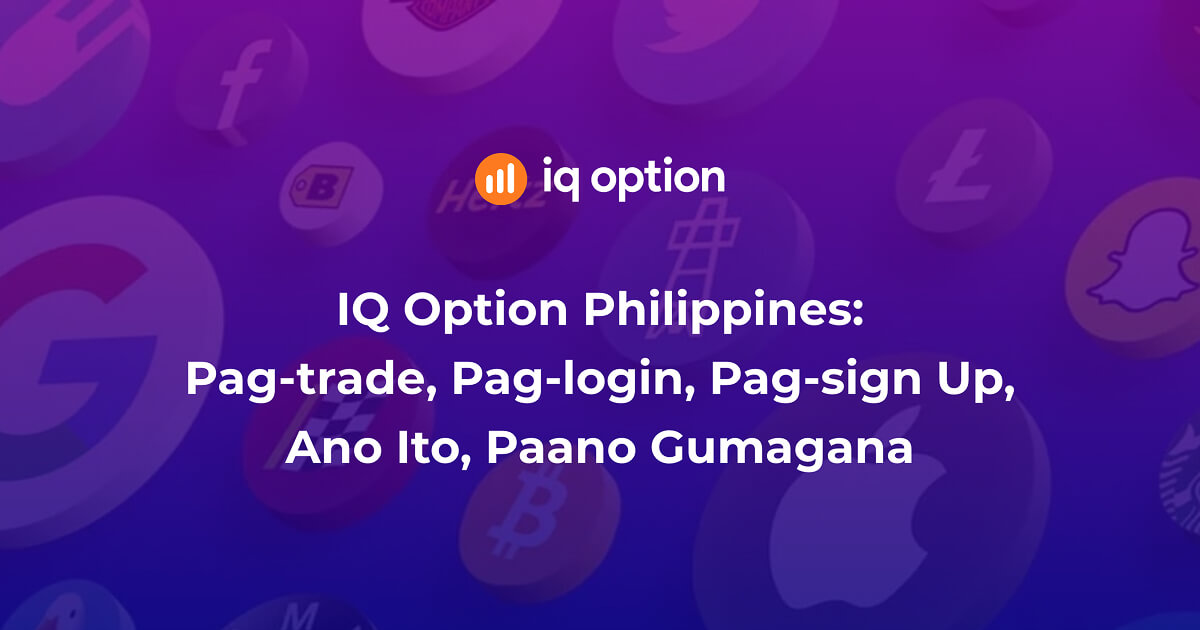
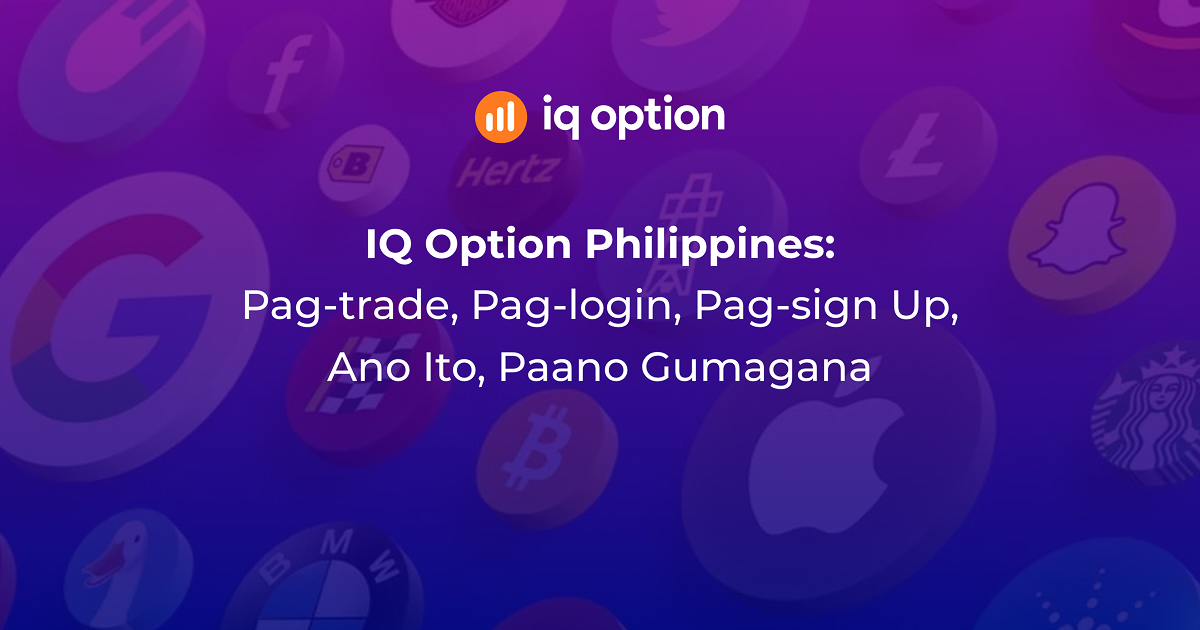
fix meta

diff --git a/src/components/Intro.svelte b/src/components/Intro.svelte
@@ -17,7 +17,7 @@
 			style="max-width: 800px; margin: 0 auto; text-align: center; padding: 140px 0 100px;"
 		>
 			<h1>
-				IQ Option Philippines:<br /> Pag-trade, Pag-login, Pag-sign Up, Ano Ito, Paano Gumagana
+				<span>IQ Option Philippines:</span><br /> Pag-trade, Pag-login, Pag-sign Up, Ano Ito, Paano Gumagana
 			</h1>
 		</div>
 	</section>

diff --git a/src/routes/styles.css b/src/routes/styles.css
@@ -89,8 +89,12 @@ h1 {
     color: #fff;
     font-size: 32px;
     margin-bottom: 30px;
-    font-weight: 700;
+    font-weight: 400;
     text-align: center;
+}
+
+h1 span {
+    font-weight: 700;
 }
 
 h2 {

diff --git a/src/routes/+layout.svelte b/src/routes/+layout.svelte
@@ -51,11 +51,4 @@
 		flex-direction: column;
 		min-height: 100vh;
 	}
-	.wrap {
-		display: flex;
-		align-items: center;
-		justify-content: center;
-		height: 100vh;
-		width: 100vw;
-	}
 </style>
